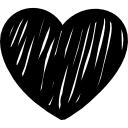
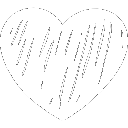
worked on images

diff --git a/variety_landing/lib/view/home.dart b/variety_landing/lib/view/home.dart
@@ -36,8 +36,8 @@ class _Home extends State<Home> {
             Row(
               children: [
                 SizedBox(
-                    height: 25,
-                    width: 25,
+                    height: 15,
+                    width: 15,
                     child: Image.asset(
                       'lib/assets/images/heart.png',
                       fit: BoxFit.fill,
@@ -109,14 +109,15 @@ class _Home extends State<Home> {
               children: <Widget>[
                 Column(
                   children: [
-                    const SizedBox(height: 150),
+                    const SizedBox(height: 50),
                     SizedBox(
-                        height: 100,
-                        width: 250,
+                        height: 120,
+                        width: 120,
                         child: Image.asset(
                           'lib/assets/images/heart.png',
                           fit: BoxFit.fill,
                         )),
+                    const SizedBox(height: 30),
                     const Row(
                       mainAxisAlignment: MainAxisAlignment.center,
                       children: [
